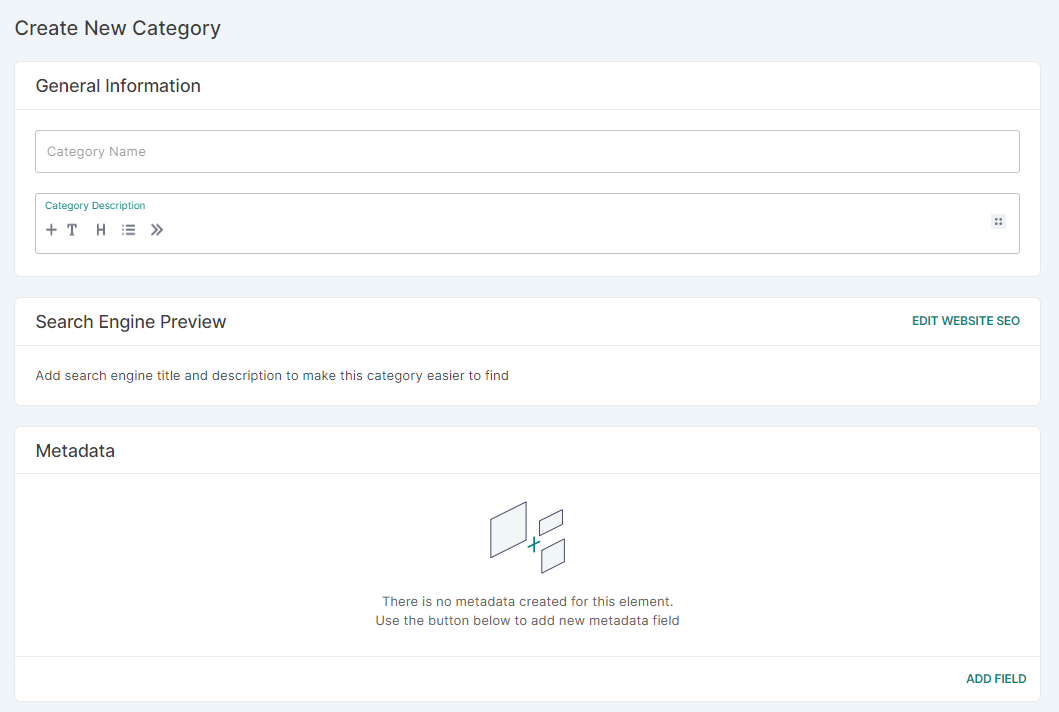
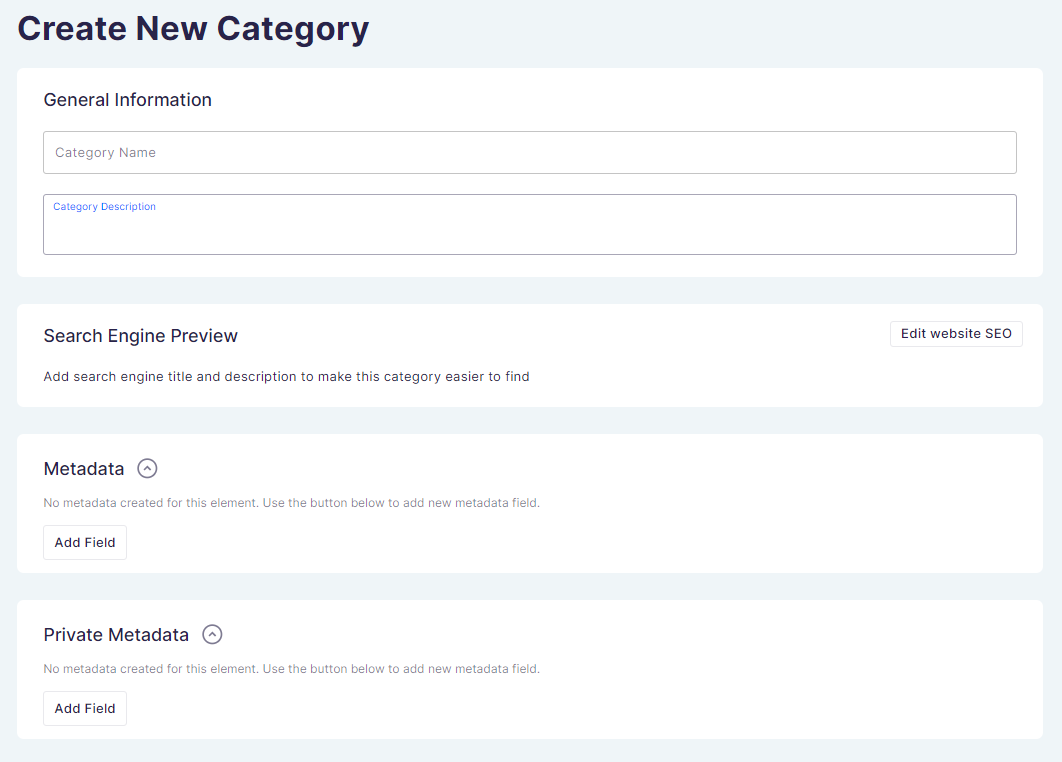
Add new category screenshots (#391)

diff --git a/docs/dashboard/catalog/categories.md b/docs/dashboard/catalog/categories.md
@@ -43,6 +43,8 @@ Click on each tab to either add a subcategory or assign products.
 
 When finished, click _Save_.
 
+![Adding category](../screenshots/catalog-category-subcategory.png)
+
 ### How to edit categories
 
 Once you have your categories set up, you can edit them at any time by clicking on a category from the list and changing information. When viewing a category, you have a card at the bottom of the page with tabs for viewing and editing products and subcategories.
@@ -62,7 +64,5 @@ Click _Create&nbsp;Subcategory_ in the top right corner of the Subcategories car
 ### How to manage metadata in the category setup page
 
 You can add private and public metadata for each category in the category setup page. Use the button _Add Field_ to add a new metadata field.
-
-![](../screenshots/metadata.jpg)
 
 To learn more about object metadata, see the [Developer's Guide](developer/metadata.mdx).
